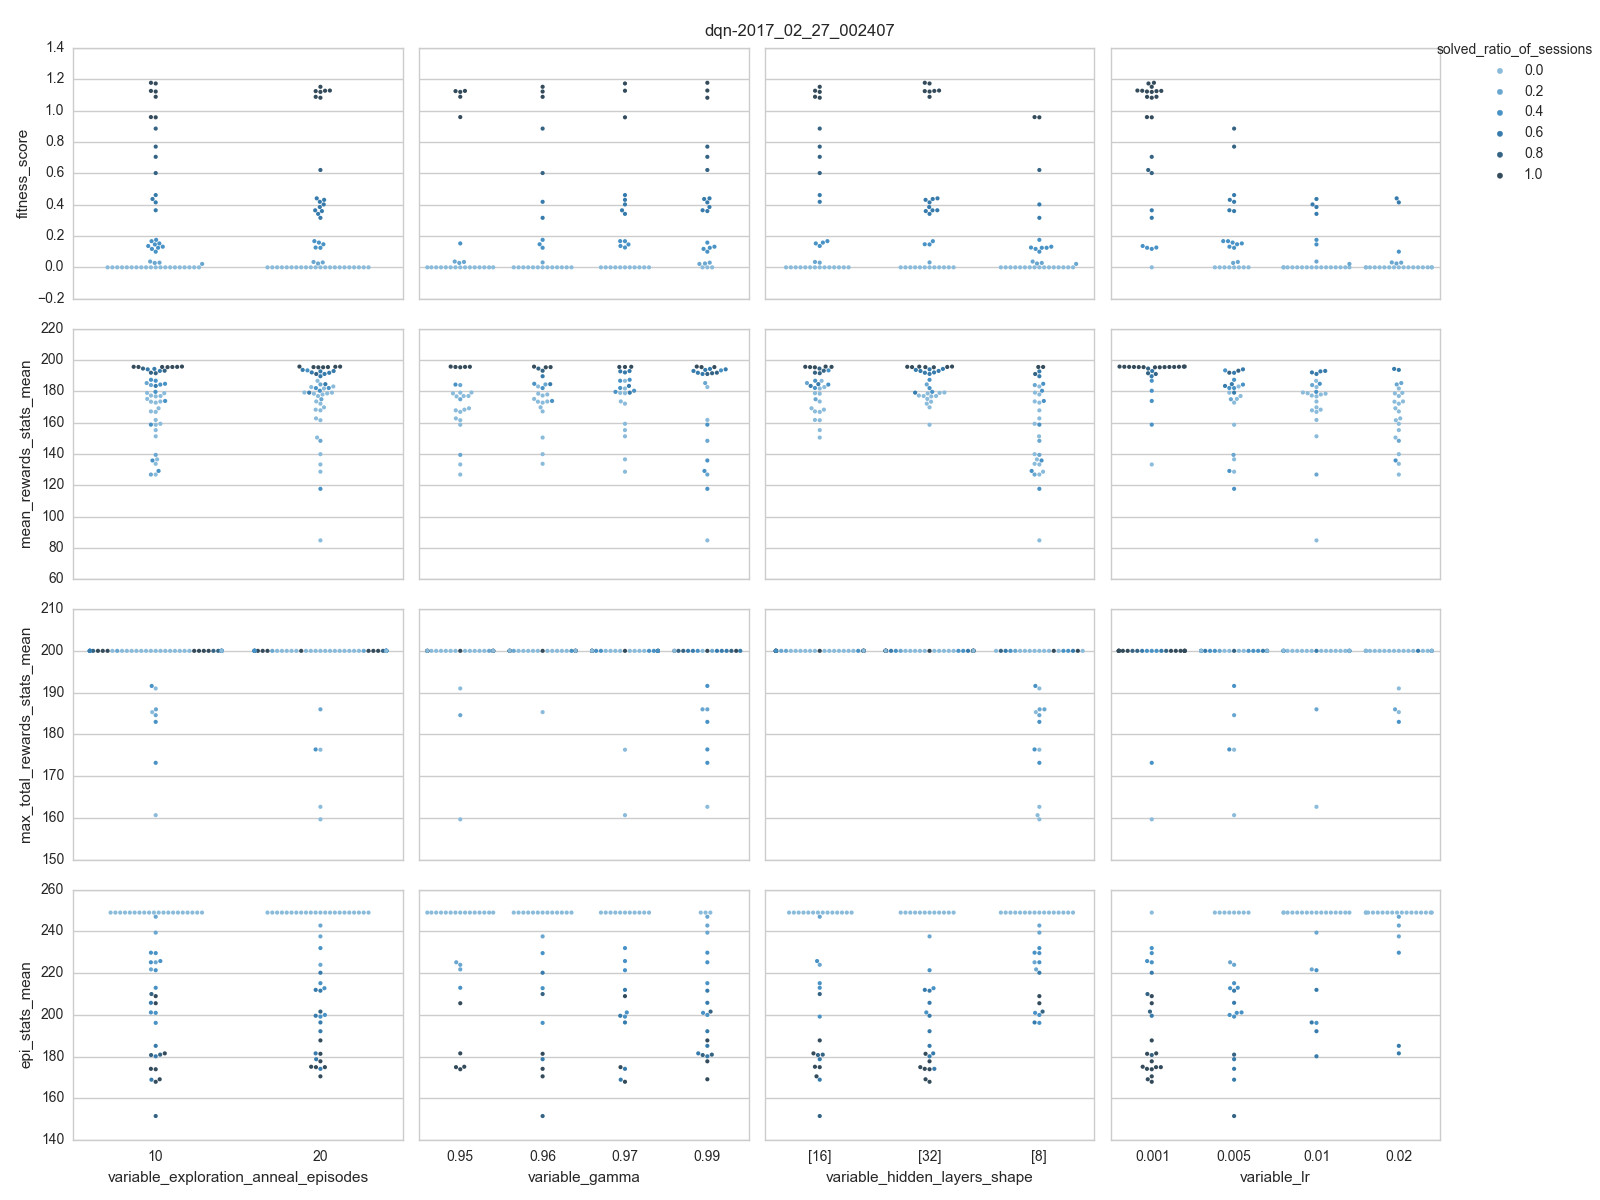
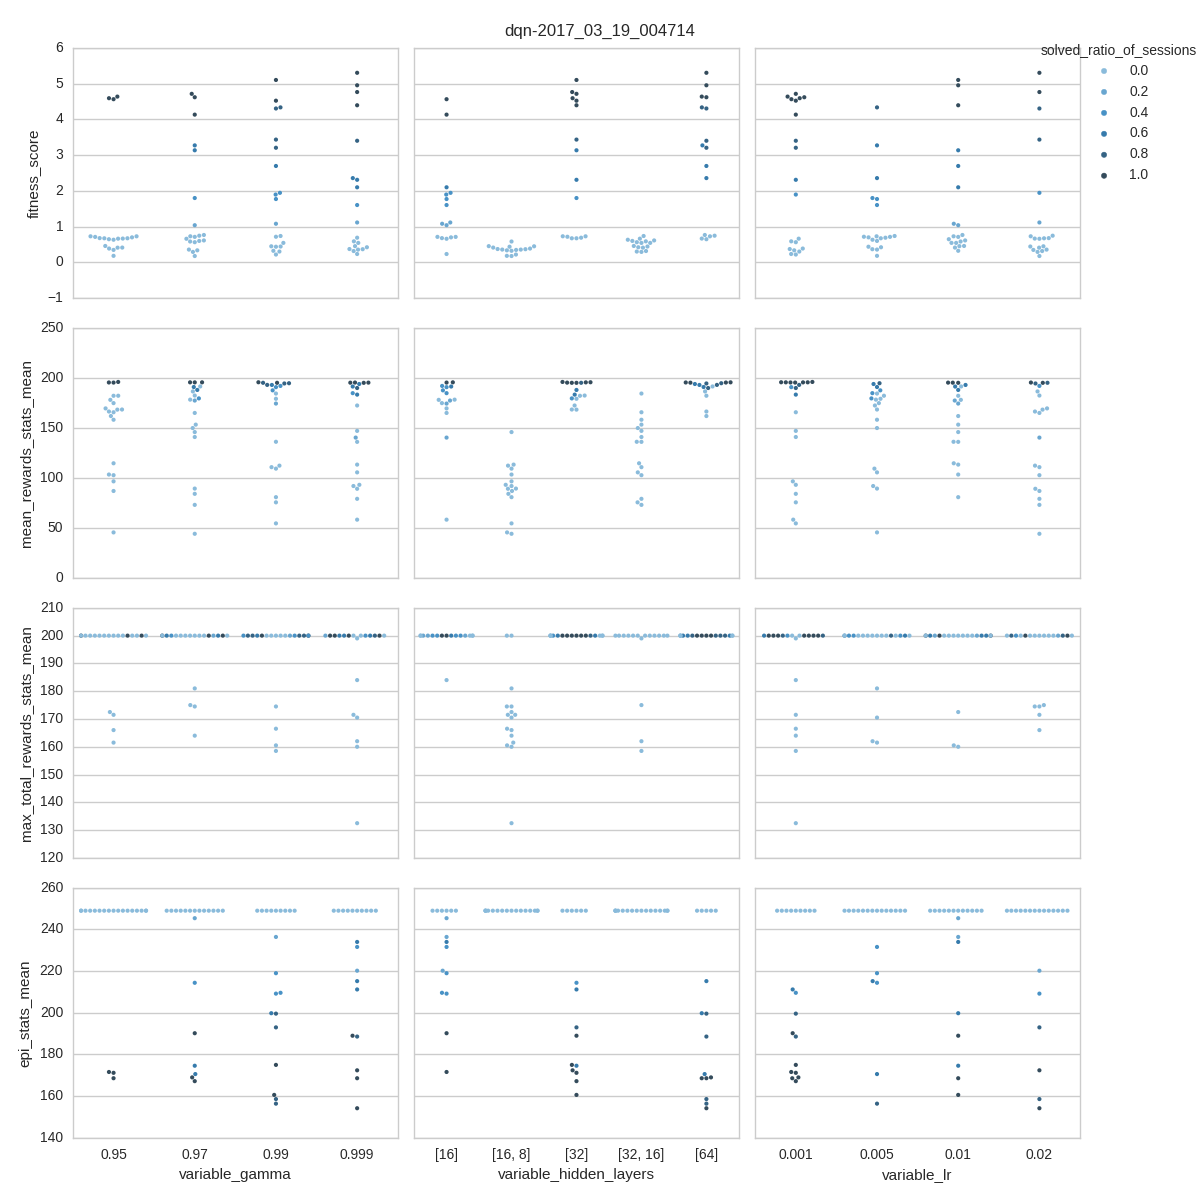
updat pics from latest dqn, update args ordering

diff --git a/source/includes/_USAGE.md b/source/includes/_USAGE.md
@@ -82,7 +82,7 @@ Experiments take a long time to complete, and if your process gets terminated, r
 
 ```json
 {
-  "dqn": "dqn-2017_02_21_182442"
+  "dqn": "dqn-2017_03_19_004714"
 }
 ```
 
@@ -126,7 +126,7 @@ The basic python command pattern is:
 python3 main.py -<flag>
 
 # most common example, with piping of terminal log
-python3 main.py -gbp -t 5 -e lunar_dqn | tee -a ./data/terminal.log;
+python3 main.py -bp -t 5 -e dqn | tee -a ./data/terminal.log;
 ```
 
 The python command <flag>s are:
@@ -134,11 +134,9 @@ The python command <flag>s are:
 - `-a`: Run `analyze_experiment()` only to plot `experiment_data`. Default: `False`
 - `-b`: blind mode, do not render graphics. Default: `False`
 - `-d`: log debug info. Default: `False`
-- `-q`: quiet mode, log warning only. Default: `False`
 - `-e <experiment>`: specify which of `rl/asset/experiment_spec.json` to run. Default: `-e dev_dqn`. Can be a `experiment_name, experiment_id`.
-- `-g`: plot graphs live. Default: `False`
-- `-m <max_evals>`: the max number of trials for hyperopt. Default: `100`
 - `-p`: run param selection. Default: `False`
+- `-q`: quiet mode, log warning only. Default: `False`
 - `-t <times>`: the number of sessions to run per trial. Default: `1`
 - `-x <max_episodes>`: Manually specifiy max number of episodes per trial. Default: `-1` and program defaults to value in `rl/asset/problems.json`
 
@@ -166,22 +164,23 @@ The example below is fully specified in `rl/asset/classic_experiment_specs.json`
     "Policy": "BoltzmannPolicy",
     "PreProcessor": "NoPreProcessor",
     "param": {
-      "train_per_n_new_exp": 1,
-      "lr": 0.001,
-      "gamma": 0.96,
-      "hidden_layers_shape": [16],
+      "lr": 0.01,
+      "decay": 0.0,
+      "gamma": 0.99,
+      "hidden_layers": [32],
       "hidden_layers_activation": "sigmoid",
-      "exploration_anneal_episodes": 20
+      "exploration_anneal_episodes": 10
     },
     "param_range": {
-      "lr": [0.001, 0.01, 0.02, 0.05],
-      "gamma": [0.95, 0.96, 0.97, 0.99],
-      "hidden_layers_shape": [
-        [8],
+      "lr": [0.001, 0.005, 0.01, 0.02],
+      "gamma": [0.95, 0.97, 0.99, 0.999],
+      "hidden_layers": [
         [16],
-        [32]
-      ],
-      "exploration_anneal_episodes": [10, 20]
+        [32],
+        [64],
+        [16, 8],
+        [32, 16]
+      ]
     }
   }
 }
@@ -197,7 +196,7 @@ The example below is fully specified in `rl/asset/classic_experiment_specs.json`
     - `NoPreProcessor`
 - *parameter variables values*: the `"param_range"` JSON
 
-An **experiment** will run a trial for each combination of `param` values; each **trial** will run for multiple repeated **sessions**. For `dqn`, there are `96` param combinations (trials), and `5` repeated sessions per trial. Overall, this experiment will run `96 x 5 = 480` sessions.
+An **experiment** will run a trial for each combination of `param` values; each **trial** will run for multiple repeated **sessions**. For `dqn`, there are `4x4x5=80` param combinations (trials), and up to `5` repeated sessions per trial. Overall, this experiment will run at most `80 x 5 = 400` sessions.
 
 
 ### Lab Workflow
